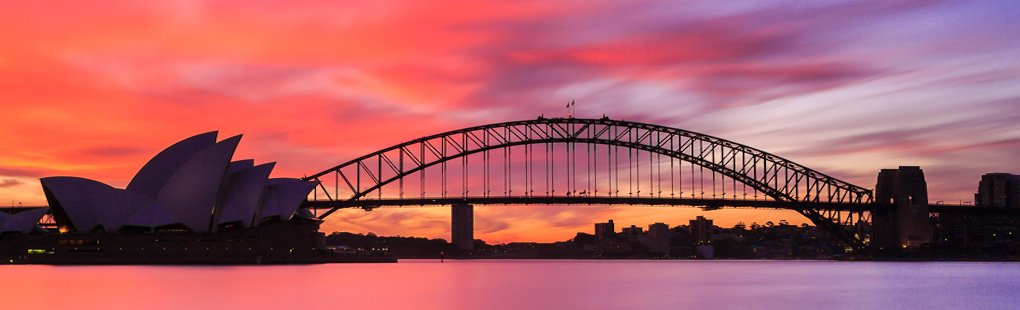
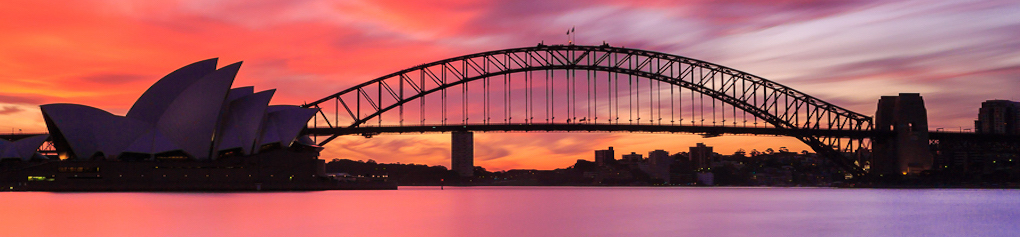
update

diff --git a/contact.html b/contact.html
@@ -3,7 +3,7 @@ layout: default
 ---
 
 <div class="container">
-<IMG SRC="images/harbour.jpg" HEIGHT="300" WEIGHT="1000" align="middle">
+<IMG SRC="images/harbour.jpg" HEIGHT="400" WEIGHT="1000" align="middle">
 
 <br><br><br>
 
